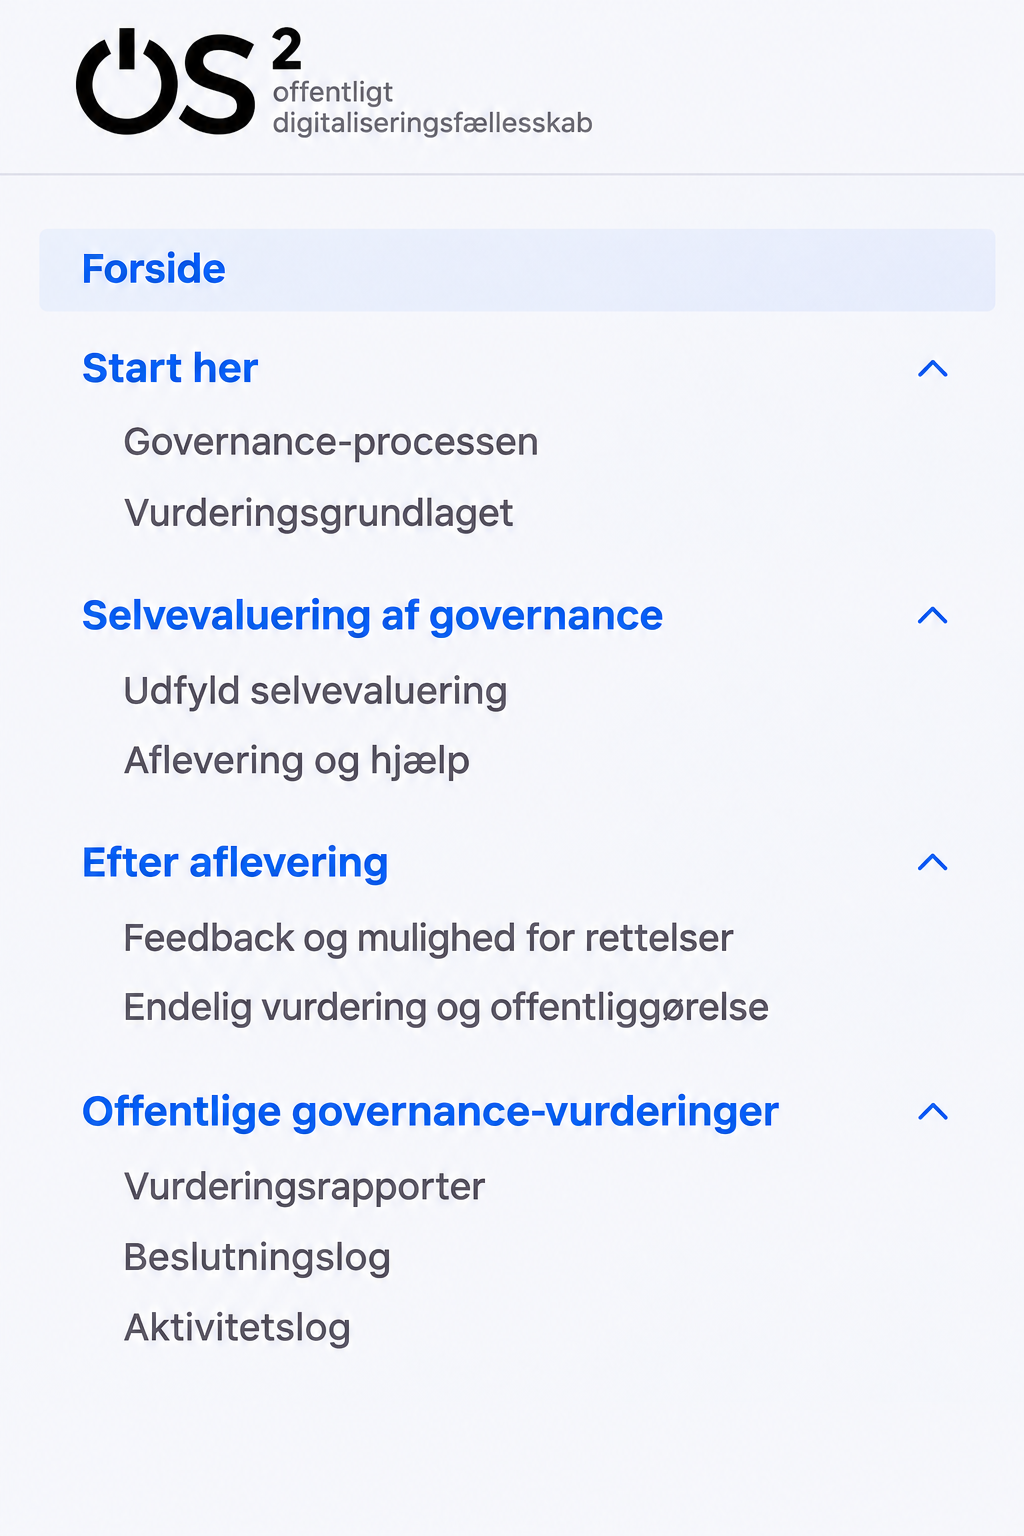
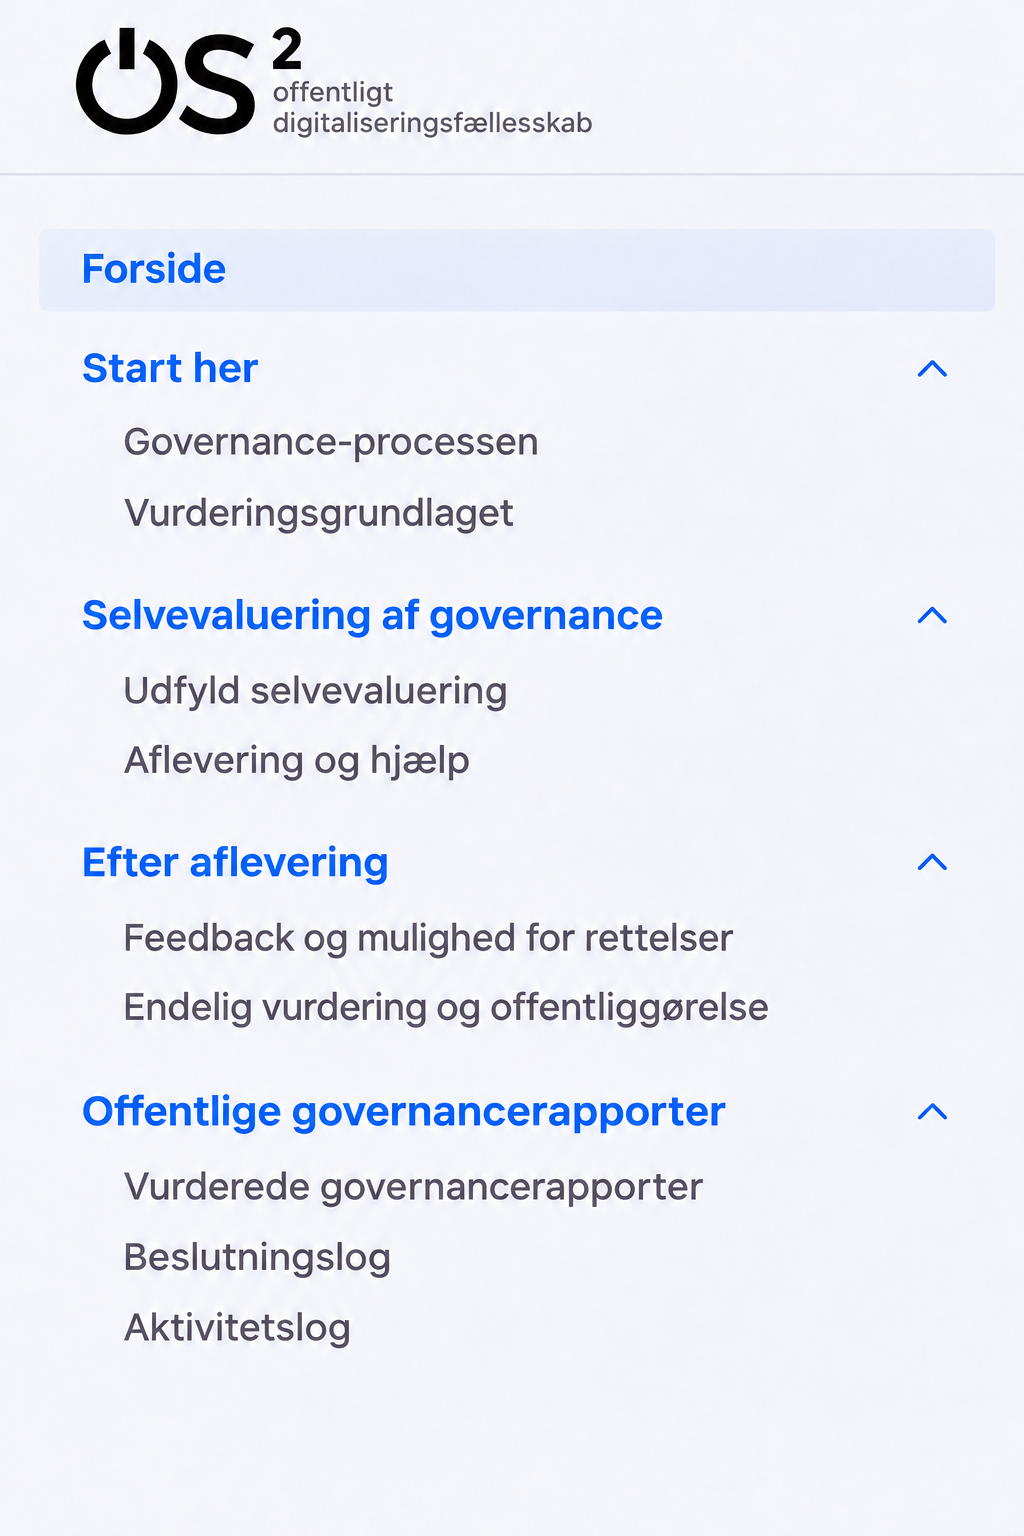
rettelser på analyse 2 og 3

diff --git a/docs/os2forloeb2026/selvevalueringer/3-analyse-gov-processen.md b/docs/os2forloeb2026/selvevalueringer/3-analyse-gov-processen.md
@@ -22,23 +22,38 @@ Analysen bygger på interviews, dokumentanalyse af emailen, walkthrough, brugert
 Teori-wise, bruges Hall som blik på forskellen mellem det, OS2 forsøger at kommunikere (encoding), og det produktforvalterne faktisk forstår (decoding). McLuhans begreb om "medium is the message" bruges til at skelne mellem medier og hvad email, hjemmeside og diagram hver især bør bruges til.
 
 Referencer:\
+Hall, S. (1993). Encoding, decoding. In S. During (Ed.), _The cultural studies reader_ (pp. 507–517). Routledge.
+
+McLuhan, M. (1964). _Understanding media: The extensions of man_. McGraw-Hill. (Kapitel 1: The medium is the message).
+
 
 
 ## Hovedfund
 
 ### 1. Årshjulet bliver ikke forstået ens
 
-Det empiriske tema viser, at der ikke er en fælles forståelse af processen. I kodningen af interviews optræder både for korte deadlines og en opfattelse af processen som årlig på tværs af interview, selv om selvevalueringen er tænkt som en halvårlig proces (som beskrevet i orienteringsemailen og på forsiden af audit.os2.eu). Der er også stor usikkerhed om de forskellige frister og om, hvad næste skridt er efter aflevering. Kun to ud af de 6 interviewede havde besøgt audit-sitet, de var begge faret vild derinde og ingen af dem kunne overskue diagrammet.
+Interviewene viser, at der ikke er en fælles forståelse af, hvor ofte selvevalueringen skal gentages. Det er på trods af, at invitationsemailen lægger op til en proces “forår og efterår”, og forsiden på audit.os2.eu beskriver, at evalueringerne offentliggøres to gange årligt.
 
-Det peger på et ret grundlæggende kommunikationsproblem: Produktforvalterne kan godt have modtaget informationen, uden at de dermed har fået en klar mental model af forløbet. 
+Tre af de interviewede produktforvaltere var i tvivl om, hvorvidt processen skulle være årlig eller halvårlig. To var ret sikre på, at den måtte være årlig og ikke burde ske oftere, mens én mente, at den både er og bør være halvårlig, så man løbende har føling med selvevalueringen.
 
-### 2. Det er uklart, hvilken status selvevalueringen har
+Selvom hyppigheden altså allerede er beskrevet både i emailen og på hjemmesiden, er den ikke blevet tydelig nok for produktforvalterne. Om processen fremadrettet bliver årlig eller halvårlig, bør rytmen derfor meldes endnu klarere ud, fx i procesdiagrammet og i toppen af selvevalueringsformularen. Det kan samtidig kommunikeres ud i produktforvalternetværket, at selvevalueringen skal indregnes som en fast del af produktets årshjul og ikke komme som en ny overraskelse hver gang.
 
-Temaet om åbenhed viser et skel mellem generel opbakning til åbenhed og konkret viden om, hvad der bliver offentligt. Flere synes, at åbenhed passer naturligt til OS2, men det betyder ikke, at de forventer, at det de sidder og udfylder, senere bliver offentligt.
+### 2. Åbenhed er ikke kommunikeret tydeligt nok
 
-Hvor det i halvdelen af interviews var implicit, at deres selvevaluering ville blive lagt op offentligt, vidste den anden halvdel af produktforvaltere ikke vidste, at selvevalueringen var åben, og nogle nævnte, at de ville have udfyldt den anderledes med den viden. Det er vigtigt, fordi offentlighed dermed kan påvirke, hvor åbent man beskriver fx mangler eller problemer.
+Temaet om åbenhed i interviewdataen viser, at flere grundlæggende synes, at åbenhed passer naturligt til OS2, men samtidig er usikre på, hvad der konkret bliver offentliggjort og hvornår. Det betyder også, at de ikke nødvendigvis forventer, at det de sidder og udfylder, senere bliver lagt offentligt.
+
+I starten blev de første selvevalueringer, der rullede ind i sensommeren 2026 lagt offentligt op på audit.os2.eu. Nogle produktforvaltere fandt det intuitivt, og enkelte nævnte det ligefrem som hjælpsomt, fordi de kunne bruge de andre produkters besvarelser som inspiration til deres egen.
+
+Til gengæld blev den første vurdering fra sekretariatet også lagt offentligt, mens den stadig var under behandling. Det blev modtaget meget negativt af det pågældende produkt, som reagerede på, at vurderingen og en mulig nedgradering var synlig, før de havde haft mulighed for at kommentere på den eller arbejde videre med forbedringer. Efter dialog med produktet blev både vurderingen og de resterende offentliggjorte selvevalueringer taget ned igen.
+
+Det skift mellem først at lægge materialet åbent og derefter fjerne det har været med til at skabe yderligere usikkerhed om, hvad der egentlig bliver offentligt og hvornår. Den usikkerhed ser også ud til at være nået videre til produkter, som endnu ikke havde udfyldt deres selvevaluering.
+
+Det understreger behovet for fremadrettet at være meget tydelig om, hvornår i processen selvevalueringen og sekretariatets vurdering bliver offentliggjort, og hvad der stadig er internt arbejds- og dialogmateriale.
+ 
+Nogle nævnte, at de ville have udfyldt formularen anderledes, hvis de havde vidst, at den blev offentliggjort. Det kan påvirke, hvor åbent man beskriver mangler og problemer i selvevalueringen såsom info om code reviews eller sikkerhedsopsætning. 
 
 Det bør derfor stå tydeligt allerede inden udfyldelsen, hvilken status dokumentet har, og hvornår noget eventuelt går fra internt arbejdsdokument til offentligt materiale.
+
 
 ### 3. Ingen ved, hvornår vurderingen er endelig
 
@@ -55,7 +70,7 @@ I Mathias' brugertest af audit.os2.eu måtte han regne næste skridt ud, ved at 
 
 ### Samlet set
 
-På tværs af de tre temaer er problemet det samme: OS2 kommunikerer en proces, men produktforvalterne afkoder ikke nødvendigvis processen på samme måde. Der er altså forskel mellem den tilsigtede kommunikation og den forståelse, modtageren ender med.
+På tværs af de tre temaer er problemet det samme: sekretariatet kommunikerer en proces, men produktforvalterne afkoder ikke nødvendigvis processen på samme måde. Der er altså forskel mellem den tilsigtede kommunikation og den forståelse, modtageren ender med.
 
 Det gælder også selve betegnelserne undervejs. Hvis feedback, evaluering og vurdering bruges om forskellige stadier uden et tydeligt skel, bliver det sværere at forstå, hvornår noget er til dialog, og hvornår det er endeligt.
 
@@ -69,24 +84,23 @@ Mit forslag er, at emailen sætter processen i gang, hjemmesiden forklarer den i
 
 Emailen er det første møde med processen for mange produktforvaltere, og vil fremadrettet blive en reminder om "nu er det tid til evaluering - igen". Orienteringsemailen bør derfor først og fremmest fortælle, hvorfor man får den, hvad man skal gøre nu, hvornår fristen er og hvor man går hen for at læse mere.
 
-Den første orienteringsemail fra 11. maj forsøgte i højere grad at rumme hele processen og kommer derfor til at ligne en FAQ. Jeg vil i stedet bruge den som en kort indgang til processen med henvisningslinks der uddyber processen på audit.os2.eu.
+Den første orienteringsemail fra 11. maj forsøgte i højere grad at rumme hele processen og kom derfor til at ligne en FAQ. Den blev så lang, at få kunne huske hvad der stod i den. Fordi det er en email har de også svært ved at finde den frem igen. Jeg ville i stedet bruge emailen som en reminder, med en kort indgang til processen og lade den indeholde henvisningslinks, der uddyber processen ovre på audit.os2.eu.
 
 ### Hjemmesiden skal være det faste referencepunkt med en god navigation
 
 Audit.os2.eu bør være det sted, man går tilbage til, hvis man er i tvivl om frister, næste skridt, feedback eller offentliggørelse. Det betyder også, at emailen mister status som referencepunkt, men bliver en orientering, og hjemmesiden bliver en wiki.
 
 Forslagene til en tydeligere forside og simplere navigation på audit.os2.eu behandles allerede i delanalyse 2. 
-Det gennemgående problem, der blev afdækket i analysen omkring hjemmesiden, var at det som produktforvalter var svært at gennemskue hvor de skulle starte og hvilke undersider der var relevante for dem. Se uddybning af hjemmesidens udfordringer for produktforvalterne [i del-analyse 2.](https://anna-leland.github.io/digi-suveraenitet-i-praksis/docs/os2forloeb2026/selvevalueringer/2-analyse-UI-audit-sitet.html)
+Det gennemgående problem, der blev afdækket i analysen omkring hjemmesiden, var at det som produktforvalter var svært at gennemskue hvor de skulle starte og hvilke undersider der var relevante for dem. Se uddybning af produktforvalternes udfordringer med hjemmesiden [i del-analyse 2.](https://anna-leland.github.io/digi-suveraenitet-i-praksis/docs/os2forloeb2026/selvevalueringer/2-analyse-UI-audit-sitet.html)
 
 ### Procesdiagrammet skal give overblik
 
 Diagrammets vigtigste opgave bør være at gøre forløbet overskueligt fra start til slut. Det skal derfor ikke indeholde alle detaljer; de bliver uddybet på hjemmesidens undersider. Diagrammet skal tydeligt vise rækkefølge, ansvar og overgangen fra internt arbejdsforløb til endelig offentlig vurdering.
 
-Diagrammet bør derfor også vise feedback og dialog som et tydeligt stadie før den endelige vurdering, så sekretariatets første tilbagemelding ikke kommer til at fremstå som processens endelige resultat.
+På baggrund af interviewempiri, brugertesten med Mathias (som aldrig havde set diagrammet før) og min egen walkthrough-analyse, har jeg lavet et forslag til et ny version af procesdiagrammet, hvor processen forhåbentligt kommunikeres tydeligere. 
 
-På baggrund af interviewempiri, brugertesten med Mathias (som aldrig havde set diagrammet før) og min egen walkthrough-analyse har jeg lavet et forslag til et ny version af procesdiagrammet, hvor processen forhåbentligt kommunikeres tydeligere. 
-
-Det oprindelige procesdiagram giver et fint overblik over, at både styregruppe og bestyrelse indgår i processen, men flere af overgangene er svære at forstå. Styregruppen kommer først visuelt ind efter sekretariatets evaluering, selv om styregruppen og produktforvalteren allerede har ansvar for selvevalueringen fra starten. Samtidig er det uklart, hvad “dialog med sekretariatet” dækker over, og hvornår processen går fra første aflevering til feedback, rettelser og endelig vurdering.
+Det oprindelige procesdiagram giver et fint overblik over, at både styregruppe og bestyrelse indgår i processen, men flere af overgangene er svære at forstå. Styregruppen kommer først visuelt ind efter sekretariatets evaluering, selv om styregruppen og produktforvalteren allerede har ansvar for selvevalueringen fra starten. Samtidig er det uklart, hvad “dialog med sekretariatet” dækker over, og hvornår processen går fra første aflevering til feedback, rettelser og endelig vurdering.\
+Diagrammet ville have gavn af at tydeliggøre feedback og dialog som et stadie før den endelige vurdering, så sekretariatets første tilbagemelding ikke kommer til at fremstå som processens endelige resultat. 
 
 Bestyrelsessporet er også svært at aflæse. Det fremgår ikke tydeligt, hvad “generelle tiltag” betyder, eller hvad pilene mellem styregruppe- og bestyrelsessporet viser. Sekretariatet optræder samtidig flere steder i begge spor, selv om sekretariatet i praksis har sin egen rolle mellem produktet og bestyrelsen.
 
@@ -94,7 +108,7 @@ I mit forslag har jeg derfor lavet **tre tydelige spor for styregruppe, sekreta
 første aflevering → sekretariatets feedback → eventuelle rettelser → endelig vurdering.\
 Jeg har også markeret det interne arbejds- og dialogforløb særskilt fra offentliggørelsen, så det bliver tydeligt, hvornår processen går fra intern behandling til et offentligt resultat.
 
-Jeg har samtidig gjort diagrammet **horisontalt og mere lineært**, så processen læses fra venstre mod højre. Det var også noget Mathias efterspurgte i brugertesten, hvor han oplevede det oprindelige diagram som overvældende, især da man ikke kunne overskue det i ét browser vindue, fordi det var så langt. For at udnytte 'dead space' på siden har jeg lavet mit forslag horisontalt. 
+Jeg har samtidig lavet diagrammet **horisontalt og mere lineært**, så processen læses fra venstre mod højre. Det var også noget Mathias efterspurgte i brugertesten, hvor han oplevede det oprindelige diagram som overvældende, især da man ikke kunne overskue det i ét browservindue, fordi det var så højt. Det nye forslag udnytter samtidig 'dead space' på siden ved at lægge diagrammet horisontalt. 
 
 **En note om formater**: Det er mit indtryk, at formuleringerne i tekstboksene til dels er skyld i manglende overblik i diagrammet, men det virker også til, at selve Mermaids-diagram struktur er med til at spænde ben. Jeg har derfor tegnet mit diagram i Figma, men downloadet det som en SVG-fil, så den kan lægges ind i .md-filer og trods man giver afkald på versionsstyringen i Git som Mermaid tilbyder, vil SVG-filen kunne hentes ned og nemt redigeres i fx. Figma og lægges op igen uden at miste kvaliteten, som hvis det havde været fx et PNG.
 

diff --git a/docs/os2forloeb2026/selvevalueringer/2-analyse-UI-audit-sitet.md b/docs/os2forloeb2026/selvevalueringer/2-analyse-UI-audit-sitet.md
@@ -54,11 +54,11 @@ Forsiden giver et overblik over indholdet på audit.os2.eu, men gør det ikke ty
 
 Dette viste sig også i brugertesten, hvor Mathias var forvirret på forsiden. Han efterlyste et tydeligere svar på: "Hvor skal jeg starte?"
 
-Forsidens "På denne side finder du" fungerer i praksis som en vejviser gennem audit-sitet, men rækkefølgen afspejler ikke tydeligt et forløb for en ny produktforvalter. Listen starter med "checklister" til selvevaluering og evaluering, selv om procesbeskrivelsen er det oplagte sted at begynde, hvis man først skal forstå sammenhængen og forskellen på de to. Derefter følger selvevalueringsformularen og til sidst de to generatorer, uden at det er tydeligt, om generatorerne overhovedet er tiltænkt produktforvalteren. Oversigten besvarer derfor kun delvist Mathias' spørgsmål om "hvor skal jeg starte?" og gør det samtidig uklart, hvem de enkelte dele er til.
+Forsidens "På denne side finder du" fungerer i praksis som en vejviser gennem audit-sitet, men rækkefølgen afspejler ikke tydeligt et forløb for en ny produktforvalter. Listen starter med "checklister" til selvevaluering og evaluering, selvom procesbeskrivelsen er det oplagte sted at begynde, hvis man først skal forstå sammenhængen og forskellen på de to. Derefter følger selvevalueringsformularen og til sidst de to generatorer, uden at det er tydeligt, om generatorerne overhovedet er tiltænkt produktforvalteren.
 
-Med Light et al.s (2018) begreb _environment of expected use_ bliver det relevant, hvilken bruger sitet synes at forudsætte. Her er den forventede bruger ikke tydelig nok.
+Med Light et al.s (2018) begreb _environment of expected use_, kan det konstateres, at den forventede bruger af sitet ikke tydelig nok.
 
-**Retning:** Gør det tydeligere, hvem sitet primært er til, og giv produktforvalteren en klar indgang til processen. Formuleringen "På denne side finder du" kan med fordel ændres til eksempelvis "På audit.os2.eu finder du" eller "Sitet indeholder", fordi linksene fører videre til undersider på sitet og ikke faktisk ligger på forsiden.
+**Retning:** Gør det tydeligere, hvem sitet primært er til, og giv produktforvalteren en klar indgang til processen. Formuleringen "På denne side finder du" kan desuden med fordel ændres til eksempelvis "På audit.os2.eu finder du" eller "Sitet indeholder", fordi linksene fører videre til undersider på sitet og ikke faktisk ligger på forsiden.
 
 ## 2. Begreberne gør det svært at forstå, hvor man er i processen
 
@@ -74,7 +74,7 @@ Derfor bør sproget på sitet tydeligere understøtte, at selvevalueringen har k
 
 En tydeligere opdeling kunne derfor være at omtale sekretariatets første tilbagemelding som **feedback**, mens **(endelig) vurdering** først bruges efter dialogen og muligheden for at rette til. Dermed bliver det lettere at se forskel på produktets selvevaluering, sekretariatets feedback og den efterfølgende vurdering.
 
-OS2 bruger allerede andre steder en "Vidste du?"-boks til at forklare forskellen på beslægtede governancebegreber (indsæt link). En lignende tilgang kunne være relevant her.
+OS2 bruger allerede en "Vidste du?"-boks til at forklare forskellen på beslægtede [governancebegreber på hjemmesiden](https://www.os2.eu/governance). En lignende tilgang kunne være relevant her.
 
 ![vidste-du-ordforklaring-eksempel](../images/vidste-du-ordforklaring-eksempel.png)
 
@@ -82,15 +82,15 @@ OS2 bruger allerede andre steder en "Vidste du?"-boks til at forklare forskellen
 
 ## 3. Navigationen er for omfattende og bygger på begreber, der allerede er svære at skelne
 
-Navigationsmenuen indeholder mange undersider, hvor flere af navnene minder meget om hinanden. _Selvevaluering, governancerapport_ og _evalueringsrapport_ optræder under både "Evalueringer", "Vurderingsgrundlag" og "Rapporter" i forskellige former. Når forskellen mellem begreberne i forvejen er svær at gennemskue, bliver det endnu vanskeligere at forstå, hvorfor de samme betegnelser dukker op flere steder i menuen.
+Navigationsmenuen indeholder mange undersider, hvor flere af navnene minder meget om hinanden. _Selvevaluering, governancerapport_ og _evalueringsrapport_ optræder under både i menuerne "Evalueringer", "Vurderingsgrundlag" og "Rapporter" i forskellige former. Når forskellen mellem begreberne i forvejen er svær at gennemskue, bliver det endnu vanskeligere at forstå, hvorfor de samme betegnelser dukker op flere steder i menuen.
 
 Det samme problem opstod i brugertesten. Da Mathias skulle finde procesbeskrivelsen uden at bruge det direkte link på forsiden, begyndte han under "Evalueringer" og måtte gætte sig frem, før han fandt "Processen" under "Vurderingsgrundlag". Sidens placering var ikke intuitiv for ham.
 
 ![nuvaerende-nav-på-audit-sitet](../images/nuvaerende-nav-på-audit-sitet.png)
 
-Forsidens egen oversigt matcher heller ikke navigationens betegnelser særlig godt. Det, der på forsiden kaldes "checkliste til selvevaluering" og "checkliste til evaluering", findes i menuen under _Vurderingsgrundlag_ som henholdsvis _Governancerapporten_ og _Evalueringsrapporten_. "Procesbeskrivelse" hedder i menuen _Processen_, mens "formular" bliver til _Selvevaluering (formular)_. De to sidste punkter beskrives på forsiden som muligheder for at generere henholdsvis en kladde til evalueringsrapporten og en governancerapport, men optræder i menuen som _Evalueringsrapport (generator)_ og _Governancerapport (generator)_. Brugeren skal dermed oversætte mellem forsidens ord og navigationens betegnelser for at finde det samme indhold. Og det er især svært at gøre, når man ikke kender forskellen på de forskellige begreber.
+Forsidens egen oversigt over hjemmesiden matcher heller ikke navigationsmenuen betegnelser særlig godt. Det, der på forsiden kaldes "checkliste til selvevaluering" og "checkliste til evaluering", findes i menuen under _Vurderingsgrundlag_ som henholdsvis _Governancerapporten_ og _Evalueringsrapporten_. Proces-diagrammet omtales på forsiden som "Procesbeskrivelse", men hedder i menuen _Processen_, mens "formular" bliver til _Selvevaluering (formular)_. De to sidste punkter beskrives på forsiden som muligheder for at generere henholdsvis en kladde til evalueringsrapporten og en governancerapport, men optræder i menuen som _Evalueringsrapport (generator)_ og _Governancerapport (generator)_. Brugeren skal dermed oversætte mellem forsidens ord og navigationens betegnelser for at finde det samme indhold. Og det er især svært at gøre, når man ikke kender forskellen på de forskellige begreber.
 
-Nogle undersider er muligvis også irrelevante at have på sitet. Der findes eksempelvis et menupunkt til selvevalueringer under "Rapporter", selv om selvevalueringen betragtes som et arbejdsdokument, som først bør offentliggøres efter sekretariatets feedback og mulighed for rettelser. Det gør det uklart, hvilken rapport en udenforstående egentlig forventes at orientere sig i.
+Nogle undersider er muligvis også irrelevante at have på sitet. Der findes eksempelvis et menupunkt til _Selvevalueringer_ under punktet _Rapporter_, hvor der tidligere har ligget selvevalueringer, men som sidenhen er blevet taget ned. Man kunne med fordel slette denne underside, og efter selvevalueringerne er blevet endeligt vurderet, kan de lægges på en underside kaldt _Vurderede governancerapporter_. Det gør tydeligt, hvilken underside en udenforstående læser egentlig forventes at kunne orientere sig i - og samtidig giver man ikke en produktforvalter det indtryk, at deres første udkast af selvevalueringen vil blive lagt op. 
 
 Overlap mellem siderne gør også strukturen sværere at forstå. Under hovedpunktet _Vurderingsgrundlag_ introduceres selve evalueringsprocessen allerede på oversiden, samtidig med at der findes en særskilt underside med navnet _Processen_, som gennemgår det samme forløb mere udførligt. Det bliver derfor uklart, hvad oversiden _Vurderingsgrundlag_ egentlig skal bruges til, og hvorfor processen først introduceres dér for derefter at få sin egen side.
 Det taler for en tydeligere arbejdsdeling mellem siderne: _Processen_ bør forklare, hvad der sker hvornår og hvem der gør hvad, mens _Vurderingsgrundlaget_ bør koncentrere sig om, hvad produktet bliver vurderet på.
@@ -99,7 +99,7 @@ Derudover findes både "Log" og "Beslutningslog", uden at forskellen mellem dere
 
 Problemet er derfor ikke kun navngivningen af enkelte sider. Selve informationsarkitekturen er blevet svær at aflæse. Nogle sider kan muligvis lægges sammen eller fjernes, mens andre bør have navne, der tydeligere viser, hvor i processen de bliver relevante.
 
-Rækkefølgen kunne også i højere grad følge produktforvalterens proces. En ny bruger har eksempelvis brug for at forstå processen og vurderingsgrundlaget, før vedkommende begynder at udfylde. Forsidens oversigt bør samtidig hænge tydeligt sammen med den struktur, brugeren møder i navigationsmenuen til venstre.
+Rækkefølgen i navigationsmenuen kunne også i højere grad følge produktforvalterens proces. En ny bruger har eksempelvis brug for at forstå processen og vurderingsgrundlaget, før vedkommende begynder at udfylde. Forsidens oversigt bør samtidig hænge tydeligt sammen med den struktur, brugeren møder i navigationsmenuen til venstre.
 
 **Retning:** Forenkle navigationen, reducér gentagelser og lad struktur og navngivning i højere grad følge brugerens vej gennem processen. Vurderingsgrundlaget og processen bør placeres, så de naturligt kommer før selve udfyldelsen, og forsidens oversigt bør afspejle den samme struktur som navigationsmenuen.
 
